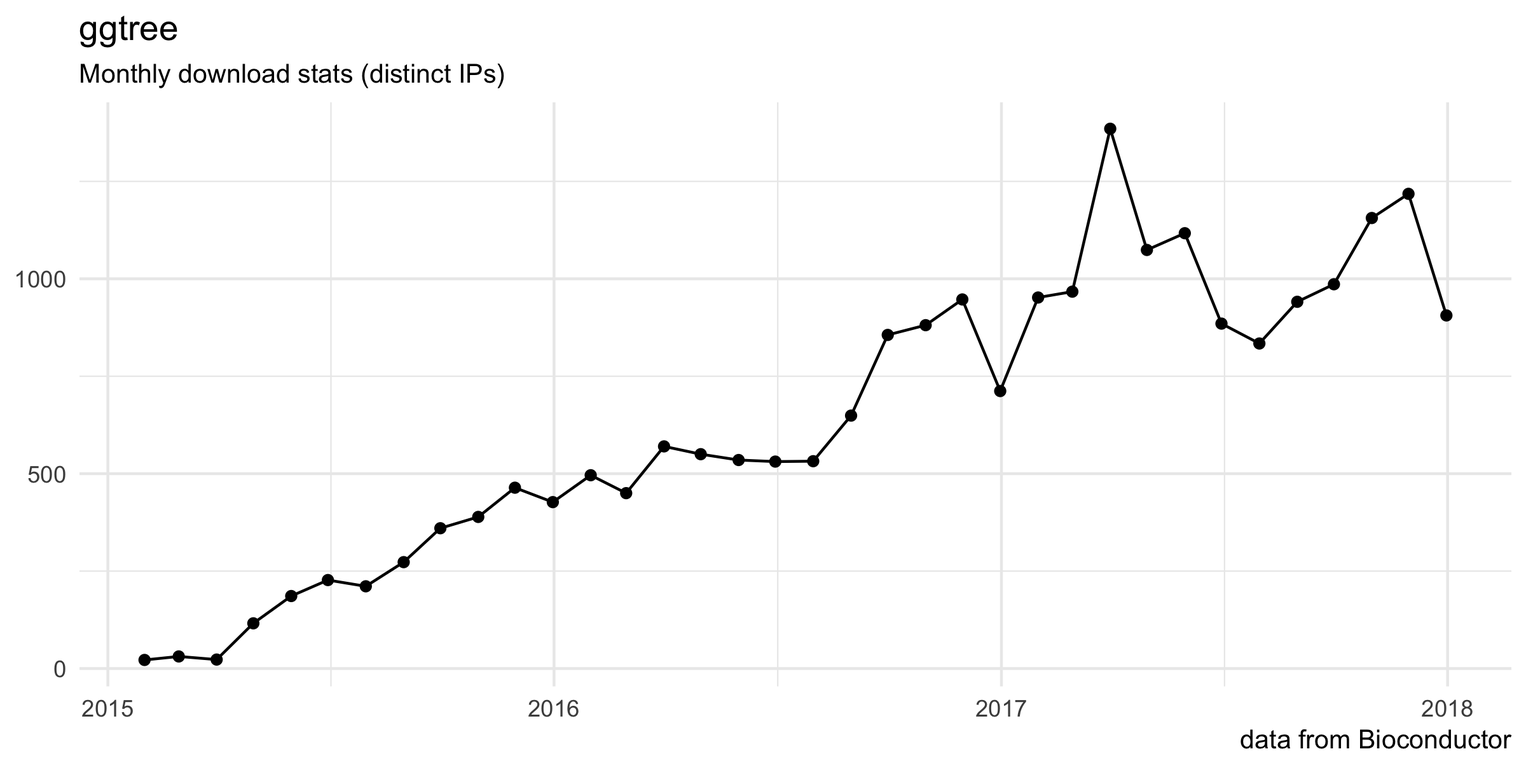
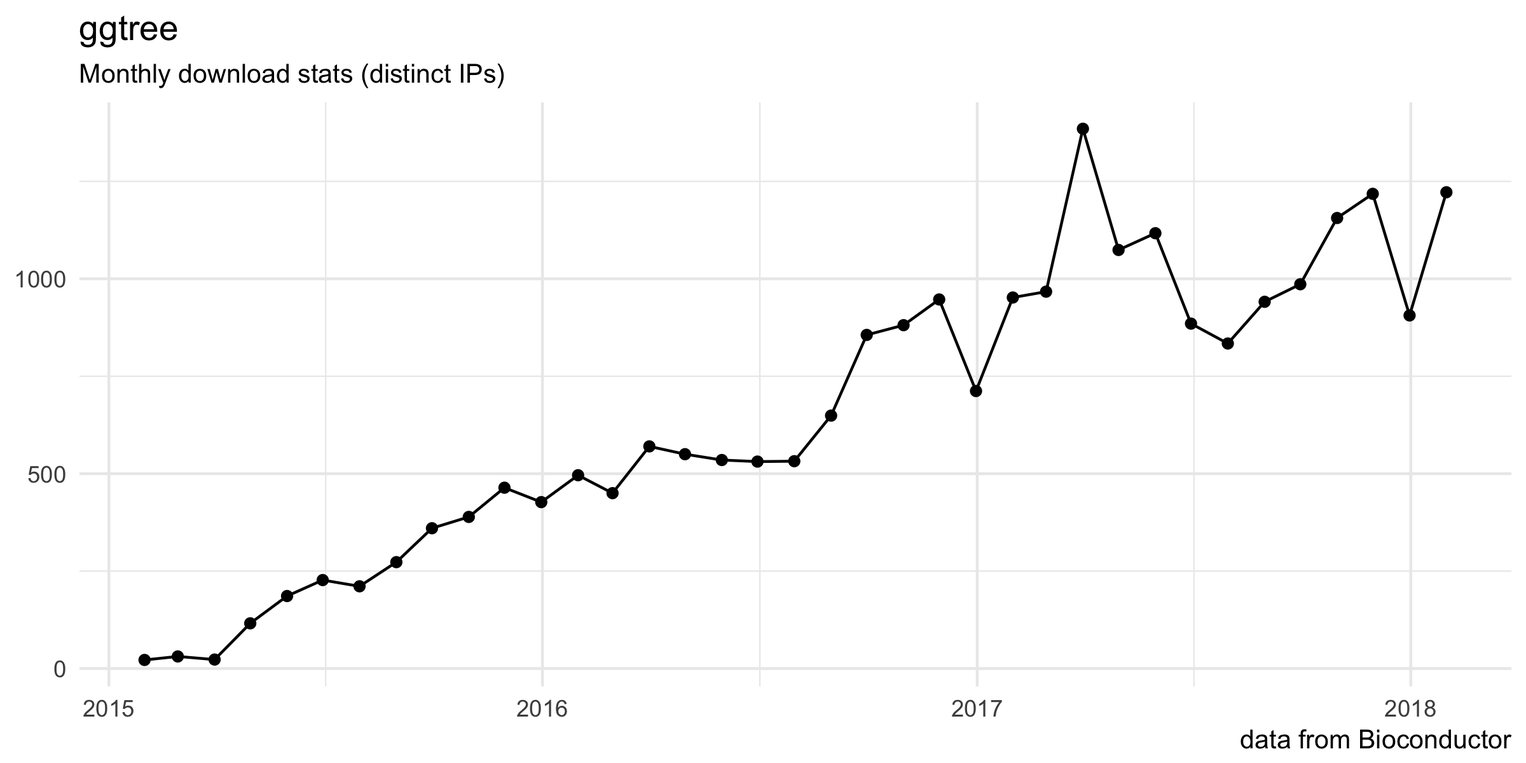
update tweets

diff --git a/docs/index.html b/docs/index.html
@@ -330,7 +330,7 @@
         </ul>
         
         <center><span class="zaln"><a href="https://guangchuangyu.github.io/2017/11/bmc-journal-protects-paper-of-plagiarism/" class="zb">Plea to against BMC</a></span></center>
-        <center><span class="zaln"><a href="https://mp.weixin.qq.com/s?__biz=MzI5NjUyNzkxMg==&mid=2247484170&idx=1&sn=ce5f7eb6df66d79661276a64bf25b4bc&chksm=ec43b24ddb343b5b2877574153aeccd049a6824716063883edb35c2338bd32c067caf3885f53#rd" class="zb">赞赏</a></span></center>
+        <center><span class="zaln"><a href="https://guangchuangyu.github.io/blog_images/pay_qrcode.png" class="zb">赞赏</a></span></center>
         <div style="width:250px;margin:auto;"><script type="text/javascript" src="//rf.revolvermaps.com/0/0/7.js?i=5qpvv5zz7fp&amp;m=0&amp;c=ff0000&amp;cr1=ffffff&amp;sx=0" async="async"></script></div>
       </div>
     </div>
@@ -346,7 +346,7 @@
 
 				<p><link rel="stylesheet" href="https://guangchuangyu.github.io/css/font-awesome.min.css"> <link rel="stylesheet" href="https://guangchuangyu.github.io/css/academicons.min.css"></p>
 <p><img src="https://raw.githubusercontent.com/Bioconductor/BiocStickers/master/ggtree/ggtree.png" height="200" align="right" /></p>
-<p><a href="https://bioconductor.org/packages/ggtree"><img src="https://img.shields.io/badge/release%20version-1.10.2-blue.svg?style=flat" alt="releaseVersion" /></a> <a href="https://github.com/guangchuangyu/ggtree"><img src="https://img.shields.io/badge/devel%20version-1.11.5-blue.svg?style=flat" alt="develVersion" /></a> <a href="https://bioconductor.org/packages/stats/bioc/ggtree"><img src="https://img.shields.io/badge/downloads-23533/total-blue.svg?style=flat" alt="total" /></a> <a href="https://bioconductor.org/packages/stats/bioc/ggtree"><img src="https://img.shields.io/badge/downloads-906/month-blue.svg?style=flat" alt="month" /></a></p>
+<p><a href="https://bioconductor.org/packages/ggtree"><img src="https://img.shields.io/badge/release%20version-1.10.4-blue.svg?style=flat" alt="releaseVersion" /></a> <a href="https://github.com/guangchuangyu/ggtree"><img src="https://img.shields.io/badge/devel%20version-1.11.5-blue.svg?style=flat" alt="develVersion" /></a> <a href="https://bioconductor.org/packages/stats/bioc/ggtree"><img src="https://img.shields.io/badge/downloads-24104/total-blue.svg?style=flat" alt="total" /></a> <a href="https://bioconductor.org/packages/stats/bioc/ggtree"><img src="https://img.shields.io/badge/downloads-1222/month-blue.svg?style=flat" alt="month" /></a></p>
 <p>The <code>ggtree</code> package extending the <em>ggplot2</em> package. It based on grammar of graphics and takes all the good parts of <em>ggplot2</em>. <em>ggtree</em> is designed for not only viewing phylogenetic tree but also displaying annotation data on the tree. <em>ggtree</em> is released within the <a href="https://bioconductor.org/packages/ggtree/">Bioconductor</a> project and the source code is hosted on <a href="https://github.com/GuangchuangYu/ggtree"><i class="fa fa-github fa-lg"></i> GitHub</a>.</p>
 <div id="authors" class="section level2">
 <h2><i class="fa fa-user"></i> Authors</h2>
@@ -355,7 +355,7 @@
 <div id="citation" class="section level2">
 <h2><i class="fa fa-book"></i> Citation</h2>
 <p>Please cite the following article when using <code>ggtree</code>:</p>
-<p><a href="http://dx.doi.org/10.1111/2041-210X.12628"><img src="https://img.shields.io/badge/doi-10.1111/2041--210X.12628-blue.svg?style=flat" alt="doi" /></a> <a href="https://www.altmetric.com/details/10533079"><img src="https://img.shields.io/badge/Altmetric-327-blue.svg?style=flat" alt="Altmetric" /></a> <a href="https://scholar.google.com.hk/scholar?oi=bibs&amp;hl=en&amp;cites=7268358477862164627"><img src="https://img.shields.io/badge/cited%20by-73-blue.svg?style=flat" alt="citation" /></a></p>
+<p><a href="http://dx.doi.org/10.1111/2041-210X.12628"><img src="https://img.shields.io/badge/doi-10.1111/2041--210X.12628-blue.svg?style=flat" alt="doi" /></a> <a href="https://www.altmetric.com/details/10533079"><img src="https://img.shields.io/badge/Altmetric-326-blue.svg?style=flat" alt="Altmetric" /></a> <a href="https://scholar.google.com.hk/scholar?oi=bibs&amp;hl=en&amp;cites=7268358477862164627"><img src="https://img.shields.io/badge/cited%20by-83-blue.svg?style=flat" alt="citation" /></a></p>
 <p><strong>G Yu</strong>, DK Smith, H Zhu, Y Guan, TTY Lam<sup>*</sup>. ggtree: an R package for visualization and annotation of phylogenetic trees with their covariates and other associated data. <strong><em>Methods in Ecology and Evolution</em></strong>. 2017, 8(1):28-36.</p>
 </div>
 <div id="featured-articles" class="section level2">

diff --git a/site_src/content/tweets/index.html b/site_src/content/tweets/index.html
@@ -8,4 +8,4 @@ weight: 50
 
 <p><link rel="stylesheet" href="https://guangchuangyu.github.io/css/font-awesome.min.css"></p>
 <p><font size="4"><strong>Leave me a message on <a href="https://twitter.com/hashtag/ggtree"><i class="fa fa-twitter fa-lg"></i></a></strong></font></p>
-<p>{{% tweet "932751454938415105" %}}{{% tweet "941463119490150405" %}}{{% tweet "941040327816892416" %}}{{% tweet "940738021514547201" %}}{{% tweet "940337892030910467" %}}{{% tweet "938702392450617344" %}}{{% tweet "936241103585517568" %}}{{% tweet "920370392451178496" %}}{{% tweet "912971120198012929" %}}{{% tweet "907543915686793217" %}}{{% tweet "910671384069722112" %}}{{% tweet "903786057182957568" %}}{{% tweet "899635001247059969" %}}{{% tweet "898729425168080897" %}}{{% tweet "891144389715783680" %}}{{% tweet "883301626022375424" %}}{{% tweet "883246854695256064" %}}{{% tweet "877576023109390336" %}}{{% tweet "875594411584782337" %}}{{% tweet "871775262152810496" %}}{{% tweet "867408666852511744" %}}{{% tweet "857665638600507393" %}}{{% tweet "840181267542994944" %}}{{% tweet "839831849736232962" %}}{{% tweet "830023569887391744" %}}{{% tweet "829398997735313408" %}}{{% tweet "824264788456984576" %}}{{% tweet "822383911258890242" %}}{{% tweet "811666431452450816" %}}{{% tweet "811661275889549312" %}}{{% tweet "797041236867686400" %}}{{% tweet "797037016403820546" %}}{{% tweet "794278716859879424" %}}{{% tweet "831952966701678592" %}}{{% tweet "788751417746059264" %}}{{% tweet "693123105707986944" %}}{{% tweet "691762302492790788" %}}{{% tweet "687933344219312128" %}}{{% tweet "684411780412526592" %}}{{% tweet "665188011047563268" %}}{{% tweet "664040586001915904" %}}{{% tweet "639507420054749184" %}}{{% tweet "671673570259509248" %}}{{% tweet "667490462693912576" %}}{{% tweet "660278158663401473" %}}{{% tweet "641251456595685376" %}}{{% tweet "559734740488818688" %}}{{% tweet "559762891478667264" %}}{{% tweet "561514846291001344" %}}{{% tweet "559542705663905793" %}}{{% tweet "561056244782227456" %}}{{% tweet "664085841766195200" %}}{{% tweet "664431087683260416" %}}{{% tweet "667706456045694976" %}}{{% tweet "663937183791759360" %}}{{% tweet "663771499589861376" %}}{{% tweet "667433534756397057" %}}{{% tweet "640573716733169664" %}}{{% tweet "664407764001779712" %}}{{% tweet "630500659960254464" %}}{{% tweet "547497335412899840" %}}{{% tweet "610364467939913728" %}}</p>
+<p>{{% tweet "959261994531487745" %}}{{% tweet "958894328914501634" %}}{{% tweet "955311827063226368" %}}{{% tweet "932751454938415105" %}}{{% tweet "941463119490150405" %}}{{% tweet "941040327816892416" %}}{{% tweet "940738021514547201" %}}{{% tweet "940337892030910467" %}}{{% tweet "938702392450617344" %}}{{% tweet "936241103585517568" %}}{{% tweet "920370392451178496" %}}{{% tweet "912971120198012929" %}}{{% tweet "907543915686793217" %}}{{% tweet "910671384069722112" %}}{{% tweet "903786057182957568" %}}{{% tweet "899635001247059969" %}}{{% tweet "898729425168080897" %}}{{% tweet "891144389715783680" %}}{{% tweet "883301626022375424" %}}{{% tweet "883246854695256064" %}}{{% tweet "877576023109390336" %}}{{% tweet "875594411584782337" %}}{{% tweet "871775262152810496" %}}{{% tweet "867408666852511744" %}}{{% tweet "857665638600507393" %}}{{% tweet "840181267542994944" %}}{{% tweet "839831849736232962" %}}{{% tweet "830023569887391744" %}}{{% tweet "829398997735313408" %}}{{% tweet "824264788456984576" %}}{{% tweet "822383911258890242" %}}{{% tweet "811666431452450816" %}}{{% tweet "811661275889549312" %}}{{% tweet "797041236867686400" %}}{{% tweet "797037016403820546" %}}{{% tweet "794278716859879424" %}}{{% tweet "831952966701678592" %}}{{% tweet "788751417746059264" %}}{{% tweet "693123105707986944" %}}{{% tweet "691762302492790788" %}}{{% tweet "687933344219312128" %}}{{% tweet "684411780412526592" %}}{{% tweet "665188011047563268" %}}{{% tweet "664040586001915904" %}}{{% tweet "639507420054749184" %}}{{% tweet "671673570259509248" %}}{{% tweet "667490462693912576" %}}{{% tweet "660278158663401473" %}}{{% tweet "641251456595685376" %}}{{% tweet "559734740488818688" %}}{{% tweet "559762891478667264" %}}{{% tweet "561514846291001344" %}}{{% tweet "559542705663905793" %}}{{% tweet "561056244782227456" %}}{{% tweet "664085841766195200" %}}{{% tweet "664431087683260416" %}}{{% tweet "667706456045694976" %}}{{% tweet "663937183791759360" %}}{{% tweet "663771499589861376" %}}{{% tweet "667433534756397057" %}}{{% tweet "640573716733169664" %}}{{% tweet "664407764001779712" %}}{{% tweet "630500659960254464" %}}{{% tweet "547497335412899840" %}}{{% tweet "610364467939913728" %}}</p>

diff --git a/docs/tweets/index.html b/docs/tweets/index.html
@@ -330,7 +330,7 @@
         </ul>
         
         <center><span class="zaln"><a href="https://guangchuangyu.github.io/2017/11/bmc-journal-protects-paper-of-plagiarism/" class="zb">Plea to against BMC</a></span></center>
-        <center><span class="zaln"><a href="https://mp.weixin.qq.com/s?__biz=MzI5NjUyNzkxMg==&mid=2247484170&idx=1&sn=ce5f7eb6df66d79661276a64bf25b4bc&chksm=ec43b24ddb343b5b2877574153aeccd049a6824716063883edb35c2338bd32c067caf3885f53#rd" class="zb">赞赏</a></span></center>
+        <center><span class="zaln"><a href="https://guangchuangyu.github.io/blog_images/pay_qrcode.png" class="zb">赞赏</a></span></center>
         <div style="width:250px;margin:auto;"><script type="text/javascript" src="//rf.revolvermaps.com/0/0/7.js?i=5qpvv5zz7fp&amp;m=0&amp;c=ff0000&amp;cr1=ffffff&amp;sx=0" async="async"></script></div>
       </div>
     </div>
@@ -345,7 +345,13 @@
 
 			<p><link rel="stylesheet" href="https://guangchuangyu.github.io/css/font-awesome.min.css"></p>
 <p><font size="4"><strong>Leave me a message on <a href="https://twitter.com/hashtag/ggtree"><i class="fa fa-twitter fa-lg"></i></a></strong></font></p>
-<p><blockquote class="twitter-tweet"><p lang="en" dir="ltr">Was just about to shout out at <a href="https://twitter.com/hashtag/ggtree?src=hash&amp;ref_src=twsrc%5Etfw">#ggtree</a> and saw your tweet on the top of my newsfeed. <a href="https://twitter.com/hashtag/ggtree?src=hash&amp;ref_src=twsrc%5Etfw">#ggtree</a> - where have you been all my life?</p>&mdash; Erin Becker (@ErinSBecker) <a href="https://twitter.com/ErinSBecker/status/932751454938415105?ref_src=twsrc%5Etfw">November 20, 2017</a></blockquote>
+<p><blockquote class="twitter-tweet"><p lang="en" dir="ltr">I am having too much fun playing with ggtree, I might never edit a phylogenetic tree using Illustrator again!</p>&mdash; Miles Zhang (@ymilesz) <a href="https://twitter.com/ymilesz/status/959261994531487745?ref_src=twsrc%5Etfw">February 2, 2018</a></blockquote>
+<script async src="https://platform.twitter.com/widgets.js" charset="utf-8"></script>
+<blockquote class="twitter-tweet"><p lang="en" dir="ltr">Didn&#39;t anticipate having to rewrite a function, but got there in the end <a href="https://twitter.com/hashtag/ggtree?src=hash&amp;ref_src=twsrc%5Etfw">#ggtree</a> <a href="https://twitter.com/hashtag/rstats?src=hash&amp;ref_src=twsrc%5Etfw">#rstats</a> <a href="https://t.co/SD1WpZ0sx6">pic.twitter.com/SD1WpZ0sx6</a></p>&mdash; Tegan Harris (@DoctorTegs) <a href="https://twitter.com/DoctorTegs/status/958894328914501634?ref_src=twsrc%5Etfw">February 1, 2018</a></blockquote>
+<script async src="https://platform.twitter.com/widgets.js" charset="utf-8"></script>
+<blockquote class="twitter-tweet"><p lang="en" dir="ltr">This time I kept it all in R and used ggtree <a href="https://t.co/G1dRHsCFPL">https://t.co/G1dRHsCFPL</a>, though both plotTree and ggtree can make this style of figure.</p>&mdash; Zoe Anne Dyson (@msmicrobiocode) <a href="https://twitter.com/msmicrobiocode/status/955311827063226368?ref_src=twsrc%5Etfw">January 22, 2018</a></blockquote>
+<script async src="https://platform.twitter.com/widgets.js" charset="utf-8"></script>
+<blockquote class="twitter-tweet"><p lang="en" dir="ltr">Was just about to shout out at <a href="https://twitter.com/hashtag/ggtree?src=hash&amp;ref_src=twsrc%5Etfw">#ggtree</a> and saw your tweet on the top of my newsfeed. <a href="https://twitter.com/hashtag/ggtree?src=hash&amp;ref_src=twsrc%5Etfw">#ggtree</a> - where have you been all my life?</p>&mdash; Erin Becker (@ErinSBecker) <a href="https://twitter.com/ErinSBecker/status/932751454938415105?ref_src=twsrc%5Etfw">November 20, 2017</a></blockquote>
 <script async src="https://platform.twitter.com/widgets.js" charset="utf-8"></script>
 <blockquote class="twitter-tweet"><p lang="en" dir="ltr">Subtrees as triangles with ggtree <a href="https://t.co/NNdur8PS2Y">https://t.co/NNdur8PS2Y</a>  <a href="https://twitter.com/hashtag/rstats?src=hash&amp;ref_src=twsrc%5Etfw">#rstats</a> <a href="https://t.co/7PZbN9daHy">https://t.co/7PZbN9daHy</a></p>&mdash; Jean 👨💻 (@JeanManguy) <a href="https://twitter.com/JeanManguy/status/941463119490150405?ref_src=twsrc%5Etfw">December 15, 2017</a></blockquote>
 <script async src="https://platform.twitter.com/widgets.js" charset="utf-8"></script>

diff --git a/site_src/content/index.html b/site_src/content/index.html
@@ -9,7 +9,7 @@ weight: 1
 
 <p><link rel="stylesheet" href="https://guangchuangyu.github.io/css/font-awesome.min.css"> <link rel="stylesheet" href="https://guangchuangyu.github.io/css/academicons.min.css"></p>
 <p><img src="https://raw.githubusercontent.com/Bioconductor/BiocStickers/master/ggtree/ggtree.png" height="200" align="right" /></p>
-<p><a href="https://bioconductor.org/packages/ggtree"><img src="https://img.shields.io/badge/release%20version-1.10.2-blue.svg?style=flat" alt="releaseVersion" /></a> <a href="https://github.com/guangchuangyu/ggtree"><img src="https://img.shields.io/badge/devel%20version-1.11.5-blue.svg?style=flat" alt="develVersion" /></a> <a href="https://bioconductor.org/packages/stats/bioc/ggtree"><img src="https://img.shields.io/badge/downloads-23533/total-blue.svg?style=flat" alt="total" /></a> <a href="https://bioconductor.org/packages/stats/bioc/ggtree"><img src="https://img.shields.io/badge/downloads-906/month-blue.svg?style=flat" alt="month" /></a></p>
+<p><a href="https://bioconductor.org/packages/ggtree"><img src="https://img.shields.io/badge/release%20version-1.10.4-blue.svg?style=flat" alt="releaseVersion" /></a> <a href="https://github.com/guangchuangyu/ggtree"><img src="https://img.shields.io/badge/devel%20version-1.11.5-blue.svg?style=flat" alt="develVersion" /></a> <a href="https://bioconductor.org/packages/stats/bioc/ggtree"><img src="https://img.shields.io/badge/downloads-24104/total-blue.svg?style=flat" alt="total" /></a> <a href="https://bioconductor.org/packages/stats/bioc/ggtree"><img src="https://img.shields.io/badge/downloads-1222/month-blue.svg?style=flat" alt="month" /></a></p>
 <p>The <code>ggtree</code> package extending the <em>ggplot2</em> package. It based on grammar of graphics and takes all the good parts of <em>ggplot2</em>. <em>ggtree</em> is designed for not only viewing phylogenetic tree but also displaying annotation data on the tree. <em>ggtree</em> is released within the <a href="https://bioconductor.org/packages/ggtree/">Bioconductor</a> project and the source code is hosted on <a href="https://github.com/GuangchuangYu/ggtree"><i class="fa fa-github fa-lg"></i> GitHub</a>.</p>
 <div id="authors" class="section level2">
 <h2><i class="fa fa-user"></i> Authors</h2>
@@ -18,7 +18,7 @@ weight: 1
 <div id="citation" class="section level2">
 <h2><i class="fa fa-book"></i> Citation</h2>
 <p>Please cite the following article when using <code>ggtree</code>:</p>
-<p><a href="http://dx.doi.org/10.1111/2041-210X.12628"><img src="https://img.shields.io/badge/doi-10.1111/2041--210X.12628-blue.svg?style=flat" alt="doi" /></a> <a href="https://www.altmetric.com/details/10533079"><img src="https://img.shields.io/badge/Altmetric-327-blue.svg?style=flat" alt="Altmetric" /></a> <a href="https://scholar.google.com.hk/scholar?oi=bibs&amp;hl=en&amp;cites=7268358477862164627"><img src="https://img.shields.io/badge/cited%20by-73-blue.svg?style=flat" alt="citation" /></a></p>
+<p><a href="http://dx.doi.org/10.1111/2041-210X.12628"><img src="https://img.shields.io/badge/doi-10.1111/2041--210X.12628-blue.svg?style=flat" alt="doi" /></a> <a href="https://www.altmetric.com/details/10533079"><img src="https://img.shields.io/badge/Altmetric-326-blue.svg?style=flat" alt="Altmetric" /></a> <a href="https://scholar.google.com.hk/scholar?oi=bibs&amp;hl=en&amp;cites=7268358477862164627"><img src="https://img.shields.io/badge/cited%20by-83-blue.svg?style=flat" alt="citation" /></a></p>
 <p><strong>G Yu</strong>, DK Smith, H Zhu, Y Guan, TTY Lam<sup>*</sup>. ggtree: an R package for visualization and annotation of phylogenetic trees with their covariates and other associated data. <strong><em>Methods in Ecology and Evolution</em></strong>. 2017, 8(1):28-36.</p>
 </div>
 <div id="featured-articles" class="section level2">

diff --git a/docs/documentation/index.html b/docs/documentation/index.html
@@ -330,7 +330,7 @@
         </ul>
         
         <center><span class="zaln"><a href="https://guangchuangyu.github.io/2017/11/bmc-journal-protects-paper-of-plagiarism/" class="zb">Plea to against BMC</a></span></center>
-        <center><span class="zaln"><a href="https://mp.weixin.qq.com/s?__biz=MzI5NjUyNzkxMg==&mid=2247484170&idx=1&sn=ce5f7eb6df66d79661276a64bf25b4bc&chksm=ec43b24ddb343b5b2877574153aeccd049a6824716063883edb35c2338bd32c067caf3885f53#rd" class="zb">赞赏</a></span></center>
+        <center><span class="zaln"><a href="https://guangchuangyu.github.io/blog_images/pay_qrcode.png" class="zb">赞赏</a></span></center>
         <div style="width:250px;margin:auto;"><script type="text/javascript" src="//rf.revolvermaps.com/0/0/7.js?i=5qpvv5zz7fp&amp;m=0&amp;c=ff0000&amp;cr1=ffffff&amp;sx=0" async="async"></script></div>
       </div>
     </div>

diff --git a/docs/faq/index.html b/docs/faq/index.html
@@ -330,7 +330,7 @@
         </ul>
         
         <center><span class="zaln"><a href="https://guangchuangyu.github.io/2017/11/bmc-journal-protects-paper-of-plagiarism/" class="zb">Plea to against BMC</a></span></center>
-        <center><span class="zaln"><a href="https://mp.weixin.qq.com/s?__biz=MzI5NjUyNzkxMg==&mid=2247484170&idx=1&sn=ce5f7eb6df66d79661276a64bf25b4bc&chksm=ec43b24ddb343b5b2877574153aeccd049a6824716063883edb35c2338bd32c067caf3885f53#rd" class="zb">赞赏</a></span></center>
+        <center><span class="zaln"><a href="https://guangchuangyu.github.io/blog_images/pay_qrcode.png" class="zb">赞赏</a></span></center>
         <div style="width:250px;margin:auto;"><script type="text/javascript" src="//rf.revolvermaps.com/0/0/7.js?i=5qpvv5zz7fp&amp;m=0&amp;c=ff0000&amp;cr1=ffffff&amp;sx=0" async="async"></script></div>
       </div>
     </div>

diff --git a/docs/featured-articles/index.html b/docs/featured-articles/index.html
@@ -330,7 +330,7 @@
         </ul>
         
         <center><span class="zaln"><a href="https://guangchuangyu.github.io/2017/11/bmc-journal-protects-paper-of-plagiarism/" class="zb">Plea to against BMC</a></span></center>
-        <center><span class="zaln"><a href="https://mp.weixin.qq.com/s?__biz=MzI5NjUyNzkxMg==&mid=2247484170&idx=1&sn=ce5f7eb6df66d79661276a64bf25b4bc&chksm=ec43b24ddb343b5b2877574153aeccd049a6824716063883edb35c2338bd32c067caf3885f53#rd" class="zb">赞赏</a></span></center>
+        <center><span class="zaln"><a href="https://guangchuangyu.github.io/blog_images/pay_qrcode.png" class="zb">赞赏</a></span></center>
         <div style="width:250px;margin:auto;"><script type="text/javascript" src="//rf.revolvermaps.com/0/0/7.js?i=5qpvv5zz7fp&amp;m=0&amp;c=ff0000&amp;cr1=ffffff&amp;sx=0" async="async"></script></div>
       </div>
     </div>

diff --git a/docs/gallery/index.html b/docs/gallery/index.html
@@ -330,7 +330,7 @@
         </ul>
         
         <center><span class="zaln"><a href="https://guangchuangyu.github.io/2017/11/bmc-journal-protects-paper-of-plagiarism/" class="zb">Plea to against BMC</a></span></center>
-        <center><span class="zaln"><a href="https://mp.weixin.qq.com/s?__biz=MzI5NjUyNzkxMg==&mid=2247484170&idx=1&sn=ce5f7eb6df66d79661276a64bf25b4bc&chksm=ec43b24ddb343b5b2877574153aeccd049a6824716063883edb35c2338bd32c067caf3885f53#rd" class="zb">赞赏</a></span></center>
+        <center><span class="zaln"><a href="https://guangchuangyu.github.io/blog_images/pay_qrcode.png" class="zb">赞赏</a></span></center>
         <div style="width:250px;margin:auto;"><script type="text/javascript" src="//rf.revolvermaps.com/0/0/7.js?i=5qpvv5zz7fp&amp;m=0&amp;c=ff0000&amp;cr1=ffffff&amp;sx=0" async="async"></script></div>
       </div>
     </div>

diff --git a/README.md b/README.md
@@ -4,9 +4,9 @@ ggtree: an R package for visualization and annotation of phylogenetic trees with
 
 <img src="https://raw.githubusercontent.com/Bioconductor/BiocStickers/master/ggtree/ggtree.png" height="200" align="right" />
 
-[![releaseVersion](https://img.shields.io/badge/release%20version-1.10.2-green.svg?style=flat)](https://bioconductor.org/packages/ggtree) [![develVersion](https://img.shields.io/badge/devel%20version-1.11.5-green.svg?style=flat)](https://github.com/guangchuangyu/ggtree) [![Bioc](http://www.bioconductor.org/shields/years-in-bioc/ggtree.svg)](https://www.bioconductor.org/packages/devel/bioc/html/ggtree.html#since) [![Awesome](https://cdn.rawgit.com/sindresorhus/awesome/d7305f38d29fed78fa85652e3a63e154dd8e8829/media/badge.svg)](https://awesome-r.com/#awesome-r-graphic-displays) [![Say Thanks!](https://img.shields.io/badge/Say%20Thanks-!-1EAEDB.svg)](https://saythanks.io/to/GuangchuangYu)
+[![releaseVersion](https://img.shields.io/badge/release%20version-1.10.4-green.svg?style=flat)](https://bioconductor.org/packages/ggtree) [![develVersion](https://img.shields.io/badge/devel%20version-1.11.5-green.svg?style=flat)](https://github.com/guangchuangyu/ggtree) [![Bioc](http://www.bioconductor.org/shields/years-in-bioc/ggtree.svg)](https://www.bioconductor.org/packages/devel/bioc/html/ggtree.html#since) [![Awesome](https://cdn.rawgit.com/sindresorhus/awesome/d7305f38d29fed78fa85652e3a63e154dd8e8829/media/badge.svg)](https://awesome-r.com/#awesome-r-graphic-displays) [![Say Thanks!](https://img.shields.io/badge/Say%20Thanks-!-1EAEDB.svg)](https://saythanks.io/to/GuangchuangYu)
 
-[![platform](http://www.bioconductor.org/shields/availability/devel/ggtree.svg)](https://www.bioconductor.org/packages/devel/bioc/html/ggtree.html#archives) [![Project Status: Active - The project has reached a stable, usable state and is being actively developed.](http://www.repostatus.org/badges/latest/active.svg)](http://www.repostatus.org/#active) [![codecov](https://codecov.io/gh/GuangchuangYu/ggtree/branch/master/graph/badge.svg)](https://codecov.io/gh/GuangchuangYu/ggtree) [![Last-changedate](https://img.shields.io/badge/last%20change-2018--01--23-green.svg)](https://github.com/GuangchuangYu/ggtree/commits/master) [![GitHub forks](https://img.shields.io/github/forks/GuangchuangYu/ggtree.svg)](https://github.com/GuangchuangYu/ggtree/network) [![GitHub stars](https://img.shields.io/github/stars/GuangchuangYu/ggtree.svg)](https://github.com/GuangchuangYu/ggtree/stargazers)
+[![platform](http://www.bioconductor.org/shields/availability/devel/ggtree.svg)](https://www.bioconductor.org/packages/devel/bioc/html/ggtree.html#archives) [![Project Status: Active - The project has reached a stable, usable state and is being actively developed.](http://www.repostatus.org/badges/latest/active.svg)](http://www.repostatus.org/#active) [![codecov](https://codecov.io/gh/GuangchuangYu/ggtree/branch/master/graph/badge.svg)](https://codecov.io/gh/GuangchuangYu/ggtree) [![Last-changedate](https://img.shields.io/badge/last%20change-2018--02--06-green.svg)](https://github.com/GuangchuangYu/ggtree/commits/master) [![GitHub forks](https://img.shields.io/github/forks/GuangchuangYu/ggtree.svg)](https://github.com/GuangchuangYu/ggtree/network) [![GitHub stars](https://img.shields.io/github/stars/GuangchuangYu/ggtree.svg)](https://github.com/GuangchuangYu/ggtree/stargazers)
 
 The `ggtree` package extending the `ggplot2` package. It based on grammar of graphics and takes all the good parts of `ggplot2`. `ggtree` is designed for not only viewing phylogenetic tree but also displaying annotation data on the tree.
 
@@ -25,7 +25,7 @@ Please cite the following article when using `ggtree`:
 
 **G Yu**, DK Smith, H Zhu, Y Guan, TTY Lam<sup>\*</sup>. ggtree: an R package for visualization and annotation of phylogenetic trees with their covariates and other associated data. ***Methods in Ecology and Evolution***. 2017, 8(1):28-36.
 
-[![doi](https://img.shields.io/badge/doi-10.1111/2041--210X.12628-green.svg?style=flat)](http://dx.doi.org/10.1111/2041-210X.12628) [![Altmetric](https://img.shields.io/badge/Altmetric-327-green.svg?style=flat)](https://www.altmetric.com/details/10533079) [![citation](https://img.shields.io/badge/cited%20by-73-green.svg?style=flat)](https://scholar.google.com.hk/scholar?oi=bibs&hl=en&cites=7268358477862164627)
+[![doi](https://img.shields.io/badge/doi-10.1111/2041--210X.12628-green.svg?style=flat)](http://dx.doi.org/10.1111/2041-210X.12628) [![Altmetric](https://img.shields.io/badge/Altmetric-326-green.svg?style=flat)](https://www.altmetric.com/details/10533079) [![citation](https://img.shields.io/badge/cited%20by-83-green.svg?style=flat)](https://scholar.google.com.hk/scholar?oi=bibs&hl=en&cites=7268358477862164627)
 
 ------------------------------------------------------------------------
 
@@ -35,6 +35,6 @@ Please cite the following article when using `ggtree`:
 
 ### Download stats
 
-[![download](http://www.bioconductor.org/shields/downloads/ggtree.svg)](https://bioconductor.org/packages/stats/bioc/ggtree) [![total](https://img.shields.io/badge/downloads-23533/total-blue.svg?style=flat)](https://bioconductor.org/packages/stats/bioc/ggtree) [![month](https://img.shields.io/badge/downloads-906/month-blue.svg?style=flat)](https://bioconductor.org/packages/stats/bioc/ggtree)
+[![download](http://www.bioconductor.org/shields/downloads/ggtree.svg)](https://bioconductor.org/packages/stats/bioc/ggtree) [![total](https://img.shields.io/badge/downloads-24104/total-blue.svg?style=flat)](https://bioconductor.org/packages/stats/bioc/ggtree) [![month](https://img.shields.io/badge/downloads-1222/month-blue.svg?style=flat)](https://bioconductor.org/packages/stats/bioc/ggtree)
 
 <img src="docs/images/dlstats.png" width="890"/>
